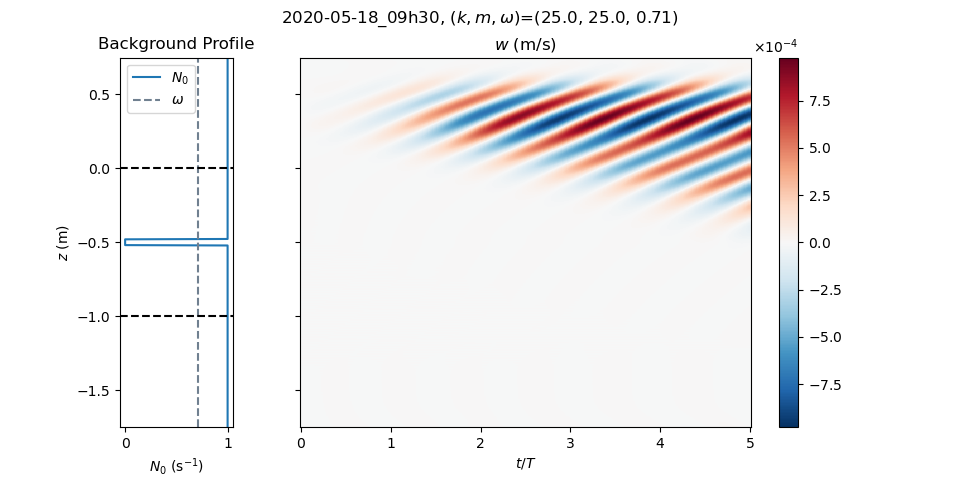
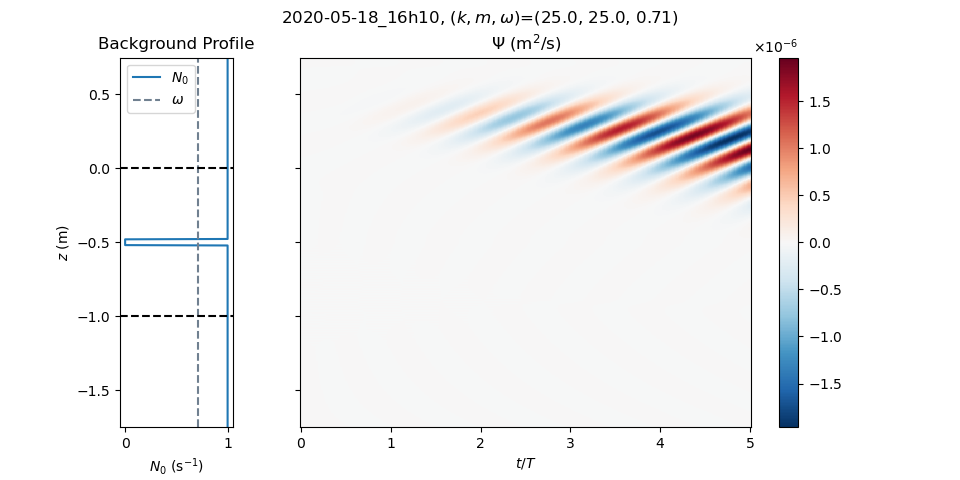
Plotting now works for psi

diff --git a/helper_functions.py b/helper_functions.py
@@ -131,7 +131,8 @@ def plot_z_vs_t(z, t_array, T, w_array, BP_array, k, m, omega, z0_dis=None, zf_d
     cbar = plt.colorbar(im)#, format=ticker.FuncFormatter(latex_exp))
     cbar.ax.ticklabel_format(style='sci', scilimits=(-2,2), useMathText=True)
     axes[1].set_xlabel(r'$t/T$')
-    axes[1].set_title(r'$w$ (m/s)')
+    # axes[1].set_title(r'$w$ (m/s)')
+    axes[1].set_title(r'$\Psi$ (m$^2$/s)')
     param_formated_str = latex_exp(k)+', '+latex_exp(m)+', '+latex_exp(omega)
     fig.suptitle(r'%s, $(k,m,\omega)$=(%s)' %(title_str, param_formated_str))
     plt.savefig('f_1D_wave.png')

diff --git a/main.py b/main.py
@@ -257,8 +257,8 @@ try:
             # w_list.append(np.copy(w['g']))
             # t_list.append(solver.sim_time)
             psi.set_scales(1)
-            psi_list = [np.copy(psi['g'])]
-            t_list = [solver.sim_time]
+            psi_list.append(np.copy(psi['g']))
+            t_list.append(solver.sim_time)
         if solver.iteration % logger_cadence == 0:
             logger.info(iteration_str %(solver.iteration, solver.sim_time/time_factor, dt/time_factor))
             # logger.info(flow_log_message.format(flow.max(flow_name)))

diff --git a/plot_slices.py b/plot_slices.py
@@ -44,12 +44,12 @@ if not os.path.exists(output_path):
         os.makedirs(output_path)
 
 # Labels
-hori_label = r'$w$ (m/s)'
+hori_label = r'$\Psi$ (m$^2$/s)' #r'$w$ (m/s)'
 vert_label = r'$z$ (m)'
 
 # Parameters
 dpi = sbp.dpi
-tasks = ['w'] # usually 'b', 'p', 'u', or 'w'
+tasks = ['psi'] #['w'] # usually 'b', 'p', 'u', or 'w'
 rows = 1
 cols = 2
 n_x_ticks = 3
